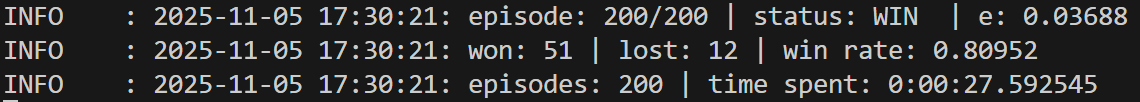
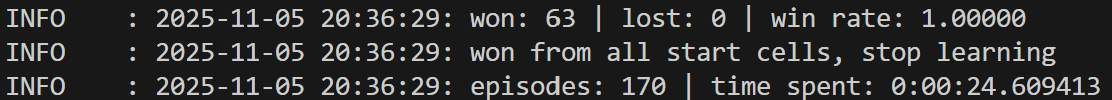
Replaced Q_Learning results that were ran with wrong weights

diff --git a/main.py b/main.py
@@ -25,7 +25,7 @@ class Test(Enum):
     SPEED_TEST_1 = auto()
     SPEED_TEST_2 = auto()
 
-test = Test.Q_ELIGIBILITY # which test to run
+test = Test.Q_LEARNING # which test to run
 
 mazeType = "blank8" # maze types
 
